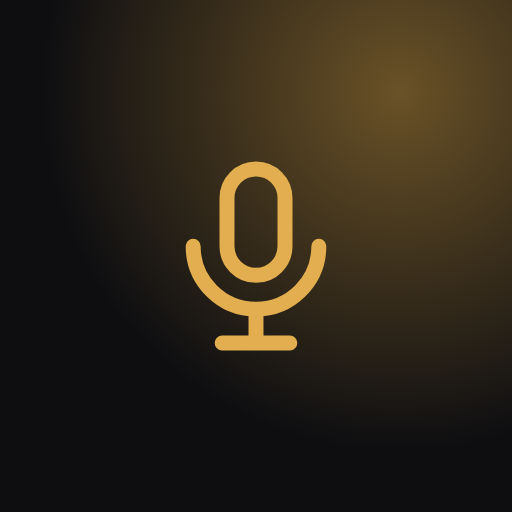
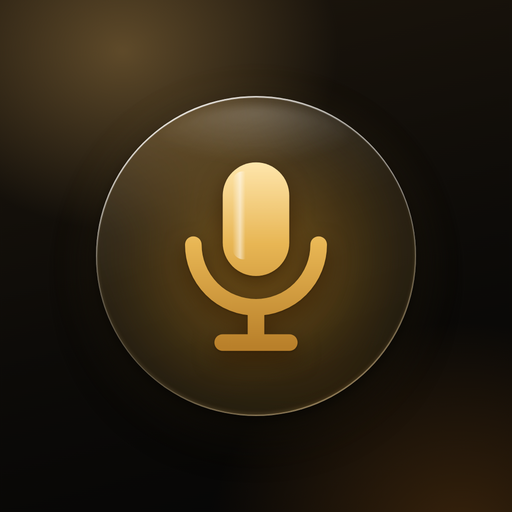
Варианты строятся от «Оптимального»; сброс к базовым; шапка и вкладки; новая иконка
Claude-Session: https://claude.ai/code/session_0153Ca9PwxTAUhg9Qyd8q6Hx

diff --git a/index.html b/index.html
@@ -427,6 +427,15 @@ nav.tabs .badge[hidden]{display:none}
 .heroes button[aria-pressed=true]{border-color:var(--a);background:color-mix(in srgb,var(--a) 14%,var(--s2))}
 .hmine{display:flex;align-items:center;gap:12px;padding:4px 0}
 .hmine img{width:48px;height:48px;border-radius:12px;background:var(--s2);object-fit:cover;object-position:50% 0}
+
+.lbl.warn{color:var(--danger)}
+.btn.sm{flex:none;min-height:40px;padding:0 16px;font-size:14px;width:auto}
+
+/* status bar strip: solid page colour under the clock, so the iOS edge shade never lands on the header */
+html,body{overscroll-behavior-y:none}
+body{min-height:100vh;min-height:100dvh}
+body::before{content:"";position:fixed;left:0;right:0;top:0;height:env(safe-area-inset-top,0px);background:var(--bg);z-index:20;pointer-events:none}
+body{padding-top:calc(env(safe-area-inset-top,0px) + 24px)}
 </style>
 </head>
 <body data-tab="calc">
@@ -469,6 +478,7 @@ nav.tabs .badge[hidden]{display:none}
     <div id="varBox" hidden>
       <div class="row" style="display:block"><div class="seg" id="varSeg" role="group" aria-label="Какой вариант редактировать"></div></div>
       <div class="row"><span class="lbl grow">Название</span><input class="in" id="varName" style="max-width:55%"></div>
+      <div class="row" id="varAuto" hidden><div class="grow"><div class="lbl warn" id="varAutoT"></div><div class="sub" id="varAutoS"></div></div><button type="button" class="btn sm" id="varRebuild">Пересобрать</button></div>
       <div class="row"><div class="grow"><div class="lbl">Рекомендую этот вариант</div><div class="sub">На карточке будет рамка и «Чаще выбирают»</div></div><label class="sw"><input type="checkbox" id="varRec" aria-label="Рекомендую"><span></span></label></div>
     </div>
   </div>
@@ -502,7 +512,8 @@ nav.tabs .badge[hidden]{display:none}
     <div class="row" style="border-top:1px solid var(--line)"><div class="grow"><div class="lbl">Прочие расходы</div><div class="sub">Такси, ассистент, реквизит. Видите только вы</div></div><div class="money"><input id="cExp" data-c="expenses" type="number" inputmode="numeric" min="0" placeholder="0"><span>₽</span></div></div>
     <div class="cmp" id="cmp"></div>
   </div>
-  <div class="actions"><button type="button" class="btn" id="newCalc">Новый расчёт</button><button type="button" class="btn pri onlyMobile" id="toClient2">Клиенту →</button></div>
+  <div class="actions"><button type="button" class="btn" id="resetCalc">Сбросить к базовым</button><button type="button" class="btn" id="newCalc">Новый расчёт</button></div>
+  <div class="foot" style="text-align:center">Сброс вернёт услуги, цены, скидку, предоплату и варианты к настройкам. Название, дата, гости и часы останутся.</div>
 </section>
 
 <!-- ============ КЛИЕНТУ ============ -->
@@ -908,6 +919,31 @@ const stName = k => (STATUSES.find(s => s[0] === k) || STATUSES[0])[1];
 function holdUntil(c){ const n = Math.floor(num(S.validDays)); if (!n || !c.sentAt || !(c.status === 'sent' || c.status === 'think')) return null; const d = new Date(c.sentAt); d.setDate(d.getDate() + n); return d; }
 function dateClash(c){ if (!c.date) return []; return H.filter(h => h.id !== c.id && h.C.date === c.date && ['sent','think','paid'].indexOf(h.C.status) >= 0); }
 const VAR_NAMES = ['Базовый','Оптимальный','Всё включено'];
+/* variants follow «Оптимальный» (index 1): Базовый = only the host part of it, Всё включено = it plus every other service.
+   Venue conditions (eventHour / fixed units) stay exactly as in «Оптимальный». A variant edited by hand keeps the edit. */
+function deriveVar(i, opt){
+  const out = {}, anyTier = S.services.some(x => x.tiers && (opt[x.id] || {}).on);
+  S.services.forEach(s => {
+    const o = opt[s.id] || newSel(s), v = JSON.parse(JSON.stringify(o));
+    if (s.unit === 'eventHour' || s.unit === 'fixed'){ out[s.id] = v; return; }
+    if (i === 0) v.on = anyTier ? (!!s.tiers && !!o.on) : (s.unit === 'hour' && !!o.on);
+    else if (!v.on){ v.on = true; if (s.unit === 'piece' && !num(v.qty)) v.qty = 1; }
+    out[s.id] = v;
+  });
+  return out;
+}
+function syncVars(){
+  if (!C.vars || C.vars.list.length !== 3) return;
+  const L = C.vars.list, a = C.vars.active;
+  [0, 2].forEach(i => { const v = L[i];
+    if (!v.manual && v.sig && i === a && JSON.stringify(v.sel) !== v.sig) v.manual = true;
+    if (!v.manual){ v.sel = deriveVar(i, L[1].sel); v.sig = JSON.stringify(v.sel); } });
+  C.sel = L[a].sel;
+}
+function varsOrderBroken(){
+  if (!C.vars || C.vars.list.length !== 3) return false;
+  const t = [0, 1, 2].map(i => calcV(i).total); return t[0] > t[1] || t[1] > t[2];
+}
 function calcV(i){ return calc(Object.assign({}, C, {sel:C.vars.list[i].sel})); }
 // gift: C.gift null = pick by event title, '' = off, id = chosen
 function giftAuto(){ const t = String(C.title || '').toLowerCase(); if (!t) return null;
@@ -1049,6 +1085,11 @@ function refreshCalc(r){
     $('varSeg').innerHTML = C.vars.list.map((v, i) => '<button type="button" data-var="'+i+'" aria-pressed="'+(i === C.vars.active)+'">'+esc(v.name)+'<small>'+rub(calcV(i).total)+'</small></button>').join('');
     if (document.activeElement !== $('varName')) $('varName').value = C.vars.list[C.vars.active].name;
     $('varRec').checked = C.vars.rec === C.vars.active;
+    const av = C.vars.list[C.vars.active], man = C.vars.list.length === 3 && C.vars.active !== 1 && av.manual, bad = varsOrderBroken();
+    $('varAuto').hidden = !(man || bad);
+    $('varAutoT').textContent = bad ? 'Цены вариантов идут не по возрастанию' : 'Этот вариант изменён вручную';
+    $('varAutoS').textContent = bad ? 'Пересоберите, и «Базовый» и «Всё включено» снова встанут от «Оптимального»' : 'Пересобрать, чтобы он снова строился от «Оптимального»';
+    if (C.vars.active === 1) $('varAutoS').textContent = bad ? 'Ручные правки в других вариантах сбили порядок. Пересоберите их от этого варианта' : $('varAutoS').textContent;
   }
   const tierOn = S.services.some(s => s.tiers && selOf(C, s).on && !num(selOf(C, s).price));
   $('tierRow').hidden = !tierOn;
@@ -1655,6 +1696,8 @@ function fillSettings(){
 function applyTheme(){
   const root = document.documentElement;
   if (S.uiTheme === 'auto') root.removeAttribute('data-ui'); else root.setAttribute('data-ui', S.uiTheme);
+  requestAnimationFrame(() => { const bg = getComputedStyle(root).getPropertyValue('--bg').trim() || '#000';
+    document.querySelectorAll('meta[name="theme-color"]').forEach(m => { m.setAttribute('content', bg); m.removeAttribute('media'); }); });
   const A = S.accent || '#D9A441';
   root.style.setProperty('--a', A);
   root.style.setProperty('--a-ink', inkOn(A));
@@ -1738,7 +1781,7 @@ function fmtInputs(){
   });
   document.querySelectorAll('.money input').forEach(el => { if (el.placeholder && /^\d{4,}$/.test(el.placeholder)) el.placeholder = nf(+el.placeholder).replace(/\u00A0/g, ' '); });
 }
-function update(){ ensureQr(); if (!String(S.contacts || '').trim() && document.activeElement !== $('s_contacts')) S.contacts = DEF_S.contacts; const r = calc(); refreshCalc(r); refreshClient(r); fillSettings(); fmtInputs(); renderBadge(); persist(); scheduleDraw(); }
+function update(){ syncVars(); ensureQr(); if (!String(S.contacts || '').trim() && document.activeElement !== $('s_contacts')) S.contacts = DEF_S.contacts; const r = calc(); refreshCalc(r); refreshClient(r); fillSettings(); fmtInputs(); renderBadge(); persist(); scheduleDraw(); }
 document.addEventListener('focusout', e => { if (e.target.closest && e.target.closest('.money, .field, .tier')) setTimeout(fmtInputs, 0); });
 function updateSettings(){ applyTheme(); update(); }
 function rebuildAll(){ buildSvcList(); buildSvcEditor(); buildGiftEditor(); buildTiers(); updateSettings(); }
@@ -1806,13 +1849,23 @@ $('tierSeg').addEventListener('click', e => { const b = e.target.closest('[data-
 $('cStatus').addEventListener('change', e => { setStatus(C, e.target.value); update(); });
 $('varOn').addEventListener('change', e => {
   if (e.target.checked){
-    const base = JSON.parse(JSON.stringify(C.sel)), full = JSON.parse(JSON.stringify(C.sel));
-    S.services.forEach(s => { const b = base[s.id] || (base[s.id] = newSel(s)); b.on = !!s.tiers || (!S.services.some(x => x.tiers) && !!s.def);
-      const f = full[s.id] || (full[s.id] = newSel(s)); if (s.unit === 'piece' && !f.on){ f.on = true; f.qty = 1; } });
-    C.vars = {active:1, rec:1, list:[{name:VAR_NAMES[0], sel:base}, {name:VAR_NAMES[1], sel:C.sel}, {name:VAR_NAMES[2], sel:full}]};
+    C.vars = {active:1, rec:1, list:[{name:VAR_NAMES[0], sel:deriveVar(0, C.sel)}, {name:VAR_NAMES[1], sel:C.sel}, {name:VAR_NAMES[2], sel:deriveVar(2, C.sel)}]};
     if (S.mode !== 'variants') S.mode = 'variants';
   } else { C.vars = null; if (S.mode === 'variants') S.mode = 'icons'; }
   update();
+});
+$('varRebuild').addEventListener('click', () => { if (!C.vars) return; C.vars.list.forEach(v => { v.manual = false; v.sig = null; }); update(); });
+// reset this calculation to the defaults from settings, event details stay
+let resetUndo = null, resetT = 0;
+$('resetCalc').addEventListener('click', () => {
+  if (resetUndo){ C = resetUndo; resetUndo = null; fixC(); $('resetCalc').textContent = 'Сбросить к базовым'; update(); return; }
+  resetUndo = JSON.parse(JSON.stringify(C));
+  const d = newCalc();
+  ['sel','discType','disc','expenses','note','ppMode','ppVal','gift','vars','tierMode','hero','dayManual'].forEach(k => { C[k] = d[k]; });
+  if (S.mode === 'variants') S.mode = 'icons';
+  $('resetCalc').textContent = 'Вернуть как было';
+  clearTimeout(resetT); resetT = setTimeout(() => { resetUndo = null; $('resetCalc').textContent = 'Сбросить к базовым'; }, 8000);
+  update(); window.scrollTo({top:0, behavior:'smooth'});
 });
 $('varSeg').addEventListener('click', e => { const b = e.target.closest('[data-var]'); if (!b) return; C.vars.active = +b.dataset.var; C.sel = C.vars.list[C.vars.active].sel; update(); });
 $('varName').addEventListener('input', e => { C.vars.list[C.vars.active].name = e.target.value; update(); });
@@ -1847,6 +1900,8 @@ $('hList').addEventListener('click', e => {
 
 // tabs
 function setTab(t){
+  const ae = document.activeElement; if (ae && ae !== document.body && ae.blur) ae.blur();
+  window.scrollTo(0, 0);
   document.body.dataset.tab = t;
   document.querySelectorAll('nav.tabs button').forEach(b => { if (b.dataset.tab === t) b.setAttribute('aria-current', 'page'); else b.removeAttribute('aria-current'); });
   $('hTitle').textContent = t === 'calc' ? 'Расчёт' : t === 'client' ? 'Для клиента' : t === 'hist' ? 'Расчёты' : 'Настройки';
@@ -1856,7 +1911,7 @@ function setTab(t){
 }
 document.querySelectorAll('nav.tabs button').forEach(b => b.addEventListener('click', () => setTab(b.dataset.tab)));
 $('toClient').addEventListener('click', () => setTab('client'));
-$('toClient2').addEventListener('click', () => setTab('client'));
+
 
 // client view
 $('modeSeg').addEventListener('click', e => { const b = e.target.closest('[data-mode]'); if (!b) return; S.mode = b.dataset.mode; update(); });
@@ -2046,7 +2101,7 @@ if (document.fonts && document.fonts.load){
   Promise.all(['600 26px Unbounded','700 62px Unbounded','400 25px Onest','500 29px Onest','600 34px Onest']
     .map(f => document.fonts.load(f, 'АБВ абв 123 ₽'))).then(() => scheduleDraw(), () => {});
 }
-window.__lango = {H:() => H, calcV:(i) => calcV(i), draw:() => drawCard().height, calc:() => calc(), model:() => clientModel(calc()), clientText, S:() => S, C:() => C, set:(o) => { Object.assign(S, o); rebuildAll(); }, setC:(o) => { Object.assign(C, o); update(); }, heroFor:(m) => heroIdFor(m), card:(t, q) => drawCard().toDataURL(t || 'image/jpeg', q || .8), tab:(t) => setTab(t)};
+window.__lango = {H:() => H, calcV:(i) => calcV(i), draw:() => drawCard().height, calc:() => calc(), model:() => clientModel(calc()), clientText, S:() => S, C:() => C, set:(o) => { Object.assign(S, o); rebuildAll(); }, setC:(o) => { Object.assign(C, o); update(); }, heroFor:(m) => heroIdFor(m), card:(t, q) => drawCard().toDataURL(t || 'image/jpeg', q || .8), tab:(t) => setTab(t), totals:() => C.vars ? C.vars.list.map((v, i) => calcV(i).total) : [calc().total]};
 })();
 </script>
 <script>

diff --git a/preview.html b/preview.html
@@ -415,6 +415,15 @@ nav.tabs .badge[hidden]{display:none}
 .hmine{display:flex;align-items:center;gap:12px;padding:4px 0}
 .hmine img{width:48px;height:48px;border-radius:12px;background:var(--s2);object-fit:cover;object-position:50% 0}
 
+.lbl.warn{color:var(--danger)}
+.btn.sm{flex:none;min-height:40px;padding:0 16px;font-size:14px;width:auto}
+
+/* status bar strip: solid page colour under the clock, so the iOS edge shade never lands on the header */
+html,body{overscroll-behavior-y:none}
+body{min-height:100vh;min-height:100dvh}
+body::before{content:"";position:fixed;left:0;right:0;top:0;height:env(safe-area-inset-top,0px);background:var(--bg);z-index:20;pointer-events:none}
+body{padding-top:calc(env(safe-area-inset-top,0px) + 24px)}
+
 /* preview page layout (the rest is the app's own CSS) */
 body.pv{padding:24px 16px 48px}
 .pv-top{max-width:1180px;margin:0 auto 16px;display:flex;flex-wrap:wrap;gap:16px;align-items:end;justify-content:space-between}

diff --git a/sw.js b/sw.js
@@ -1,5 +1,5 @@
 // Offline cache for Калькулятор lango.show. New version is picked up on the next launch after an update.
-const CACHE = 'lango-calc-4f78013d';
+const CACHE = 'lango-calc-c1fb7938';
 const FILES = ['./', './index.html', './manifest.webmanifest', './icon-180.png', './icon-192.png', './icon-512.png', './icon-512-maskable.png'];
 self.addEventListener('install', e => { e.waitUntil(caches.open(CACHE).then(c => c.addAll(FILES)).then(() => self.skipWaiting())); });
 self.addEventListener('activate', e => { e.waitUntil(caches.keys().then(keys => Promise.all(keys.filter(k => k !== CACHE).map(k => caches.delete(k)))).then(() => self.clients.claim())); });
